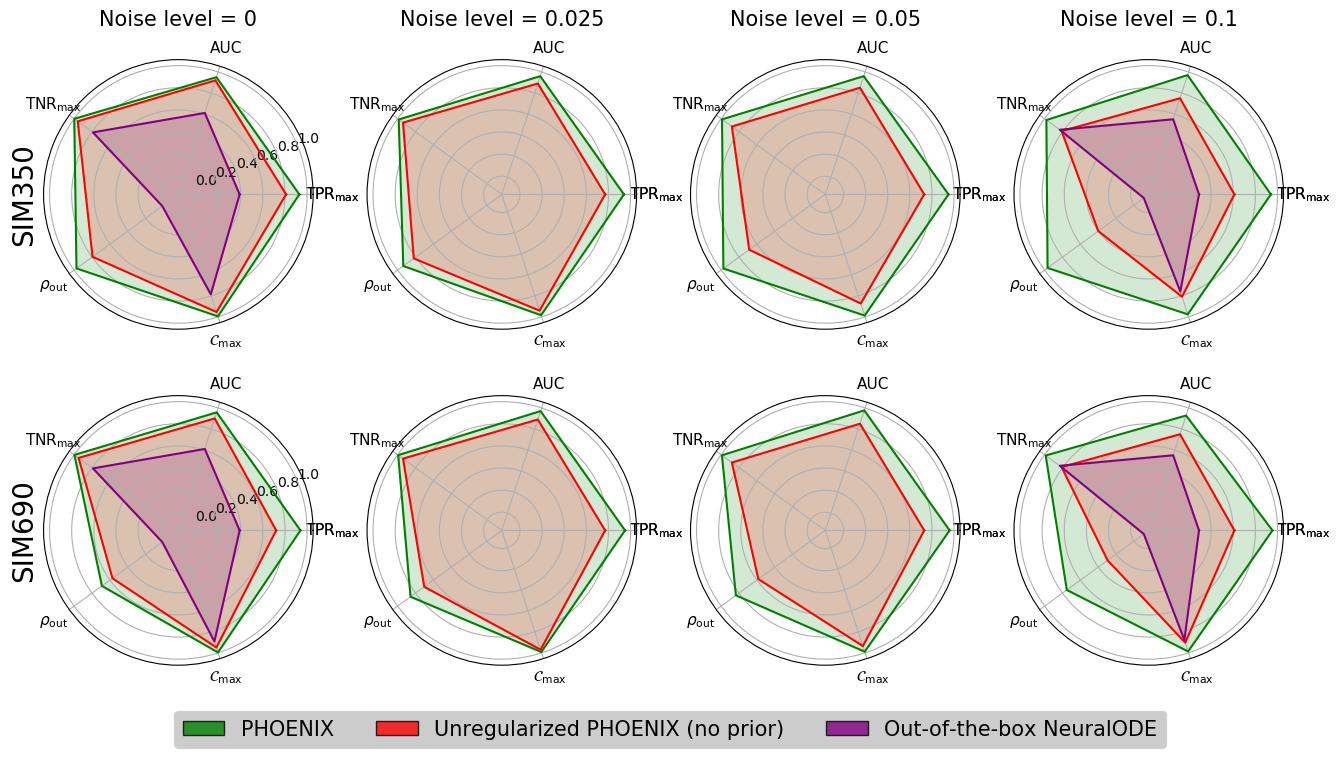
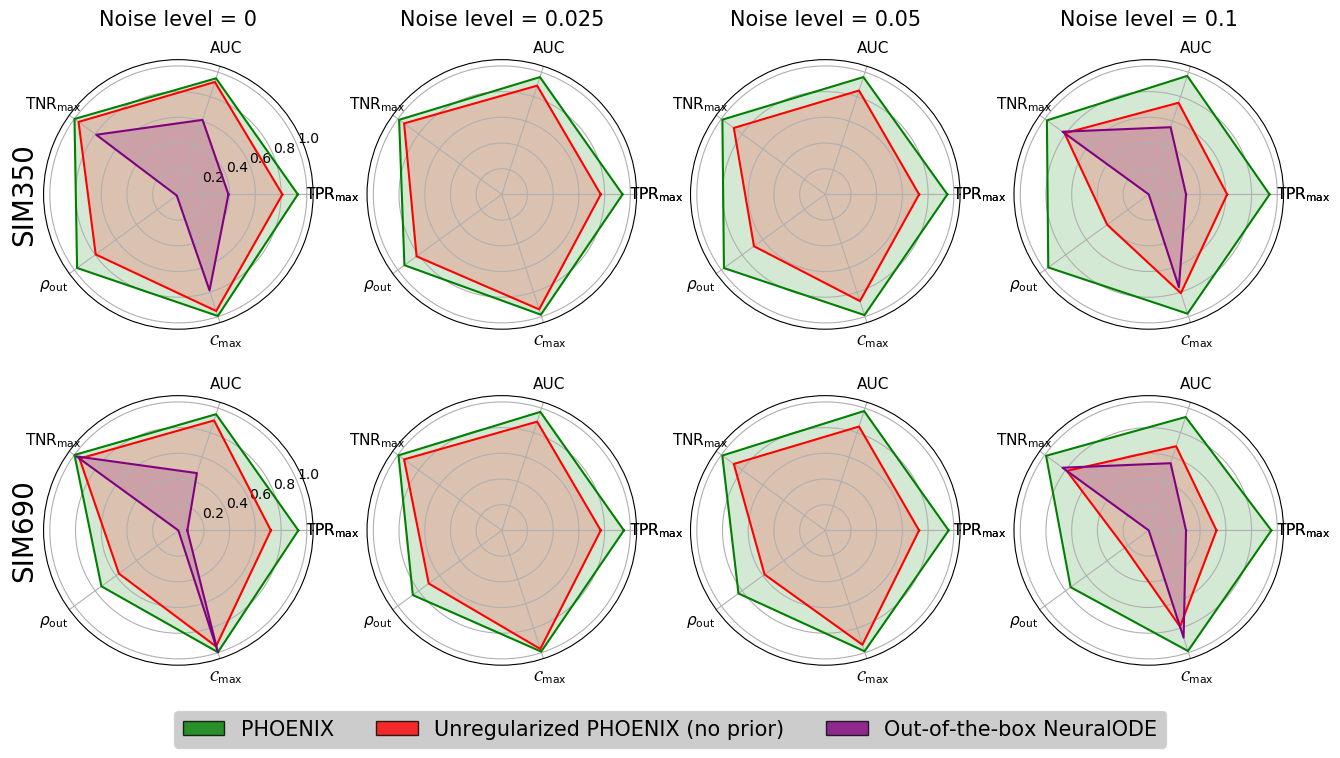
fig updates

diff --git a/ode_net/code/fig_auc_perf.py b/ode_net/code/fig_auc_perf.py
@@ -7,6 +7,11 @@ import matplotlib.pyplot as plt
 from matplotlib.patches import Patch, Polygon
 import numpy as np
 
+def my_relu_func(x):
+    if x > 0:
+        return x
+    return 0
+
 if __name__ == "__main__":
 
     save_file_name = "just_plots"
@@ -71,7 +76,7 @@ if __name__ == "__main__":
         for this_model in models:
             for this_noise in noises:
                 print("Now on data = {}, noise = {}".format(this_data, this_noise))
-                radar_data = [perf_info[this_data][this_model][this_noise][this_metric] for this_metric in plot_metrics]
+                radar_data = [my_relu_func(perf_info[this_data][this_model][this_noise][this_metric]) for this_metric in plot_metrics]
                 
                 row_num = datasets.index(this_data)
                 this_row_plots = axes_auc_perfs[row_num]
